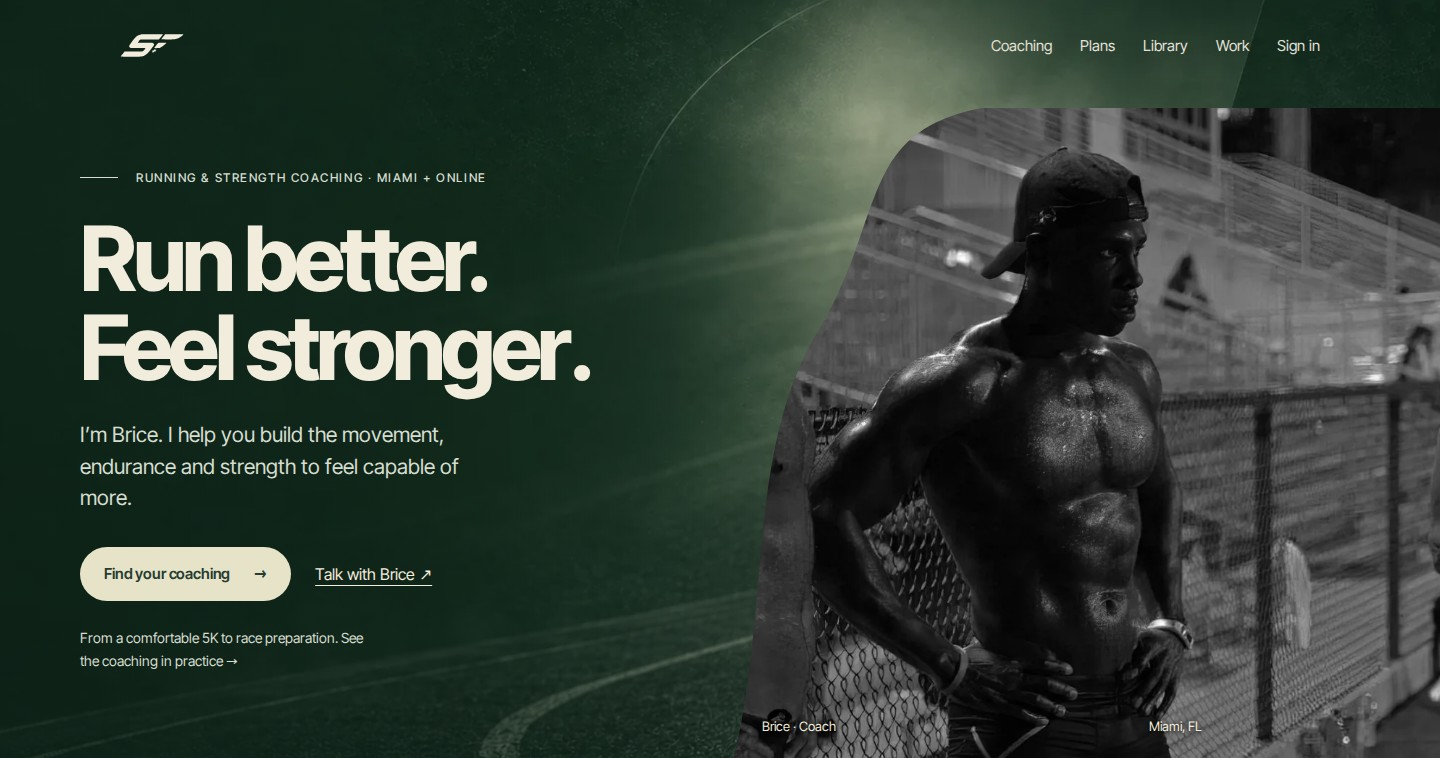
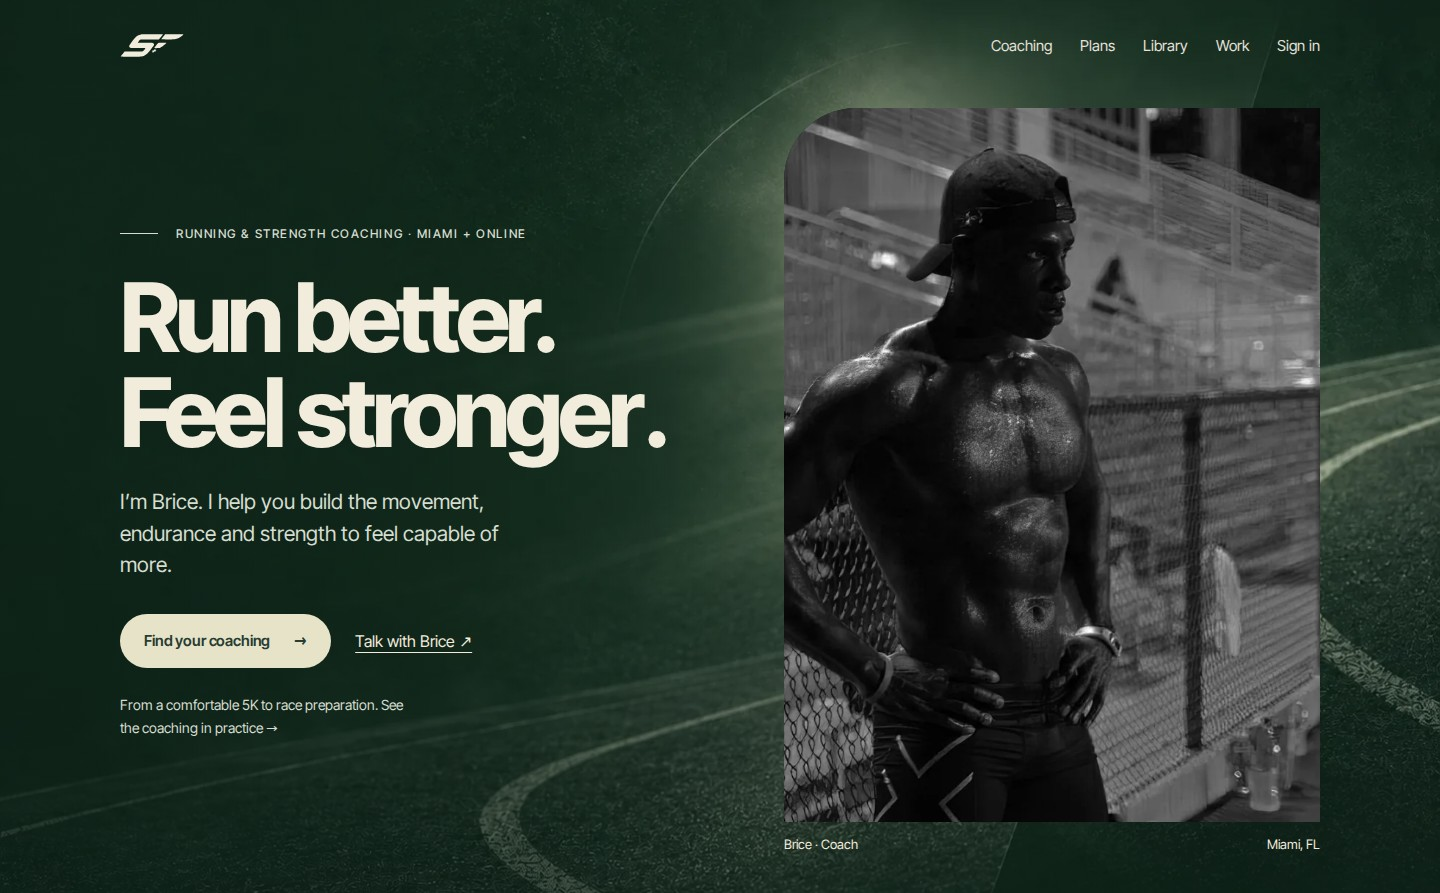
Replace sweep preview with single rounded top-left corner [skip netlify]

diff --git a/design/experiments/sweep-mask-20261001/sweep.css b/design/experiments/sweep-mask-20261001/sweep.css
@@ -1,11 +1,3 @@
-/* Original image; SVG clipping changes only the viewport silhouette. */
-.home-opening .sf-home-hero{padding-top:108px;padding-bottom:0}
-.home-hero-grid{width:100%;max-width:none;grid-template-columns:minmax(0,1fr) minmax(0,1fr);gap:28px;align-items:center}
-.sf-home-hero .hero-copy{padding:34px 0 60px;margin-left:max(48px,calc((100vw - 1280px)/2));z-index:1}
-.sf-home-hero h1{font-size:clamp(58px,6.25vw,90px)}
-.home-hero-photo{align-self:stretch;position:relative;margin:0}
-.home-portrait-curve{border-radius:0;clip-path:url(#sweep-mask);width:100%;height:100%;min-height:650px;aspect-ratio:auto;background:transparent}
-.home-portrait img{width:210%;left:-18%;top:0}
-.home-opening .home-hero-photo figcaption{position:absolute;bottom:22px;left:28px;right:32px;max-width:440px;margin:0;text-shadow:0 1px 5px #000}
-@media(max-width:1100px) and (min-width:601px){.sf-home-hero .hero-copy{margin-left:32px}.home-portrait-curve{min-height:580px}.home-portrait img{width:260%;left:-34%;top:0}.sf-home-hero h1{font-size:7vw}}
-@media(max-width:600px){.home-opening .sf-home-hero{padding-top:98px;padding-bottom:0}.home-hero-grid{grid-template-columns:1fr;gap:24px}.sf-home-hero .hero-copy{margin:0 20px;padding:8px 0 0}.sf-home-hero h1{font-size:clamp(52px,13.2vw,77px)}.home-hero-photo{width:100%}.home-portrait-curve{height:auto;min-height:0;aspect-ratio:4/5;width:100%;margin:0}.home-portrait img{width:240%;left:-26%;top:0}.home-opening .home-hero-photo figcaption{left:24px;right:24px;bottom:16px}}
+/* Original photograph, rectangular crop, one rounded corner. */
+.home-portrait-curve{clip-path:none;border-radius:72px 0 0 0}
+@media(max-width:600px){.home-portrait-curve{border-top-left-radius:48px}}

diff --git a/design/experiments/sweep-mask-20261001/index.html b/design/experiments/sweep-mask-20261001/index.html
@@ -1,4 +1,4 @@
-<!doctype html><html lang="en"><head><meta charset="utf-8"><meta name="viewport" content="width=device-width,initial-scale=1"><meta name="robots" content="noindex,nofollow"><title>Speed &amp; Form · sweeping mask study</title><link rel="stylesheet" href="/css/homepage.css"><link rel="stylesheet" href="/css/sf-brand.css"><link rel="stylesheet" href="/css/home-commercial.css"><link rel="stylesheet" href="./sweep.css"></head><body><svg width="0" height="0" aria-hidden="true" style="position:absolute"><defs><clipPath id="sweep-mask" clipPathUnits="objectBoundingBox"><path d="M .35 0 C .17 .04 .22 .17 .11 .36 C .02 .54 .05 .77 0 1 L 1 1 L 1 0 Z"/></clipPath></defs></svg><header class="header">
+<!doctype html><html lang="en"><head><meta charset="utf-8"><meta name="viewport" content="width=device-width,initial-scale=1"><meta name="robots" content="noindex,nofollow"><title>Speed &amp; Form · single corner study</title><link rel="stylesheet" href="/css/homepage.css"><link rel="stylesheet" href="/css/sf-brand.css"><link rel="stylesheet" href="/css/home-commercial.css"><link rel="stylesheet" href="./sweep.css"></head><body><header class="header">
   <div class="wrap header-inner">
     <a href="/" class="sf-brand" aria-label="Speed and Form home"></a>
     <nav class="header-right" aria-label="Main">

diff --git a/docs/roadmap/FORM-ROADMAP.md b/docs/roadmap/FORM-ROADMAP.md
@@ -1,11 +1,11 @@
 # FORM: current state and next actions
 
 
-## October 1 - Sweeping portrait mask study
+## October 1 - Single-corner portrait preview
 
-- [x] Owner-requested preview at `design/experiments/sweep-mask-20261001/`: original Brice photograph, asymmetric SVG clip, photo flush to right edge, existing copy and track background.
-- [x] Chromium rendering at 390, 768, 1024 and 1440px: no horizontal overflow. Desktop and phone screenshots saved beside the preview. This is a local design study, not a production change or physical-device acceptance.
-- [ ] Owner review of the sweep before replacing the published portrait treatment. Current production remains the verified forest/track release below.
+- [x] Brice rejected the sweeping mask. Revised `design/experiments/sweep-mask-20261001/` restores the published layout and original rectangular crop with only the top-left corner rounded (72px desktop, 48px phone). No SVG mask or other rounded corners.
+- [x] Chromium rendering at 390, 768, 1024 and 1440px: no horizontal overflow. Desktop and phone screenshots saved beside the preview. Local design preview only; current production remains the verified forest/track release below.
+- [ ] Review the revised preview before publication.
 
 ## October 1 - Forest-and-chalk public house
 
